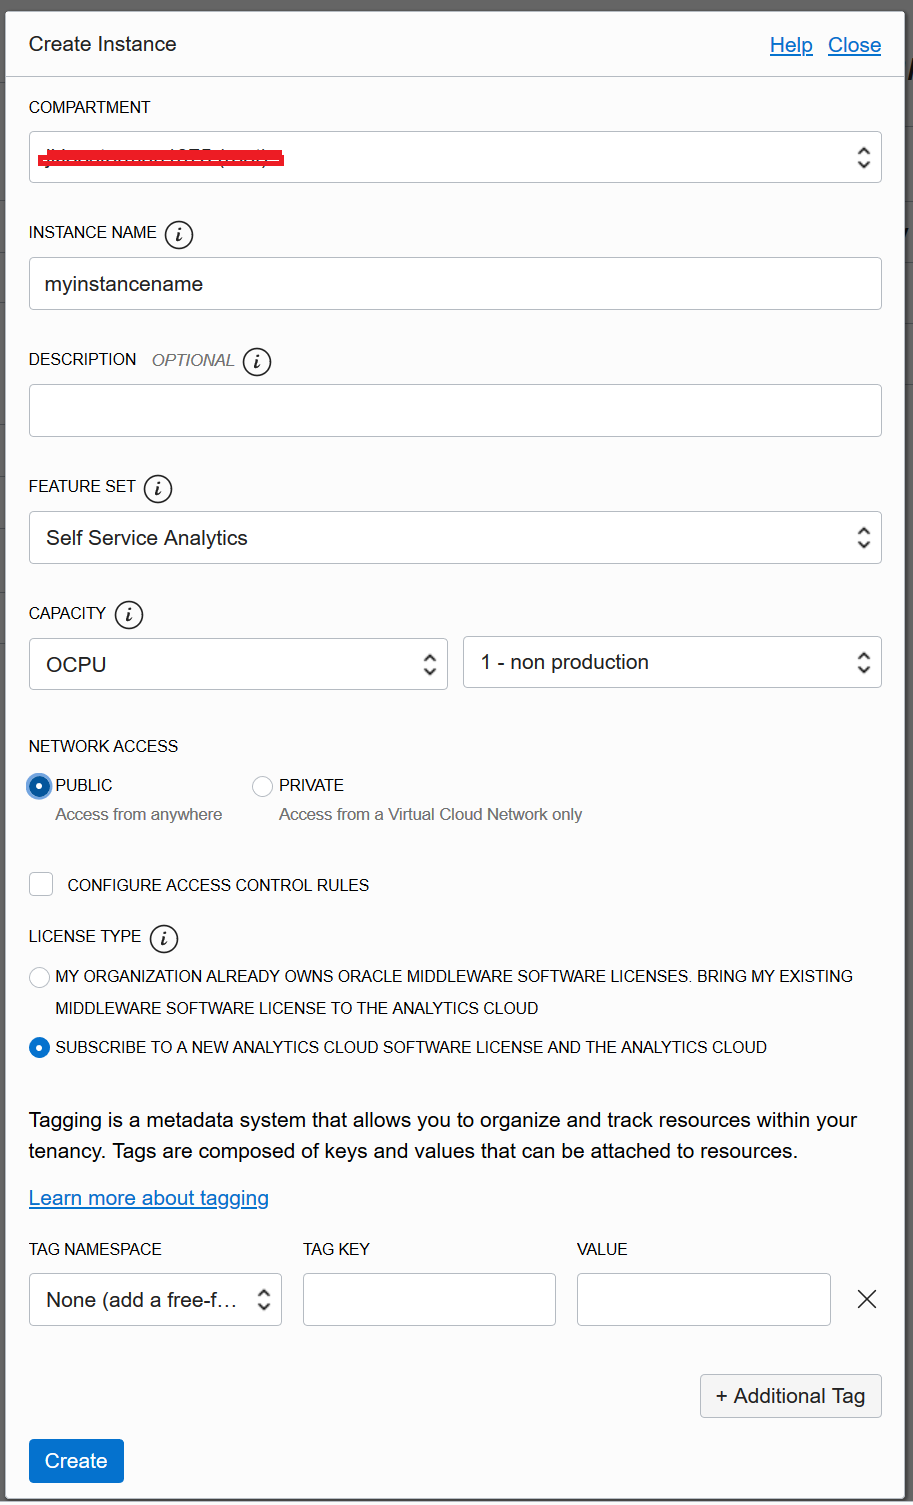
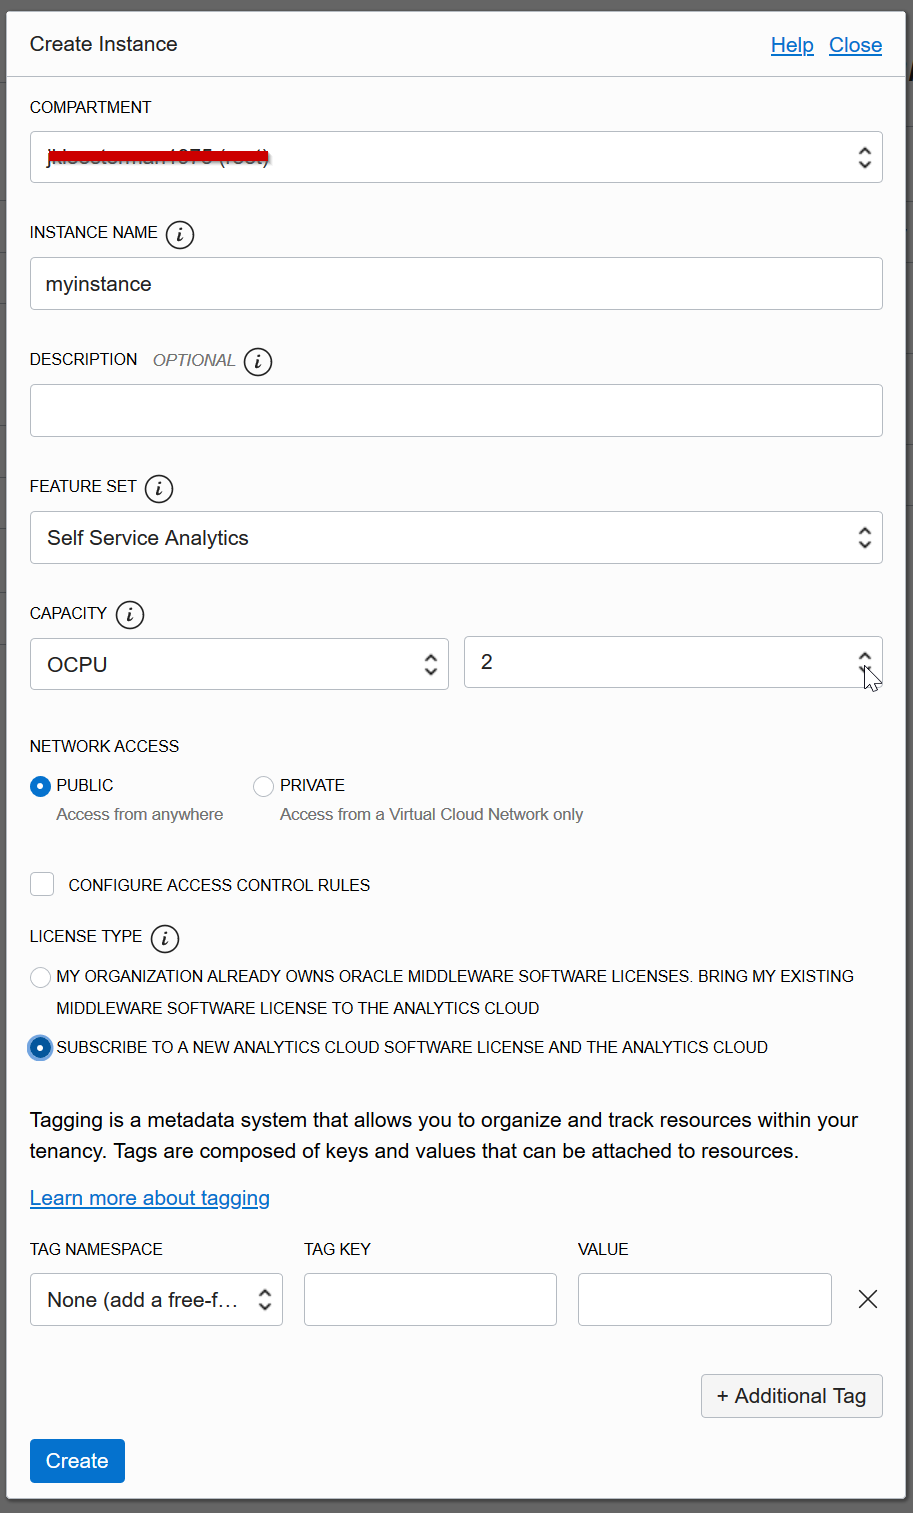
Added OAC provisioning

diff --git a/DataScience/prereq3/lab.md b/DataScience/prereq3/lab.md
@@ -2,7 +2,7 @@
 
 This lab can be executed using either Oracle Analytics Desktop (local installation) or Oracle Analytics Cloud (cloud environment). 
 
-**Option 1: Install Oracle Analytics Desktop **and Machine Learning packages**
+**Option 1: Install Oracle Analytics Desktop and Machine Learning packages**
 
 Important: Don't forget to **install the open source Machine Learning packages** after you've installed Oracle Analytics Desktop.
 
@@ -30,7 +30,7 @@ Important: Don't forget to **install the open source Machine Learning packages**
 4. In the configuration screen, do the following:
 - Instance name: Any name you choose
 - Feature Set: Self Service Analytics
-- OCPU: 1 - non production
+- OCPU: 2
 - Network access: Public
 - License type: "Subscribe to a new Analytics Cloud...". Note that you are in a free trial.
 
@@ -38,7 +38,7 @@ Click Next.
   
 ![](./images/oac5.png)
 
-- Click "Create". The status changes to "Creating service...". Provisioning should take between 5 and 20 minutes.
+- Click "Create". The status changes to "Creating...". Provisioning can take up to 30min.
 ![](./images/oac6.png)
 
 
